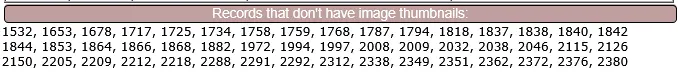
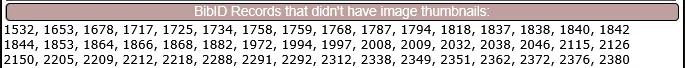
update: README.md thumbnail

diff --git a/catalog/thumbnail_check.php b/catalog/thumbnail_check.php
@@ -49,7 +49,7 @@ if ($missingThumbs['success'] === true) {
 
 	$missing_thumbnails = $results->thumbnail_FailtoAdd();
 	$count = 0;
-	echo "<h3>BibID Records that don't have image thumbnails:</h3>";
+	echo "<h3>BibID Records that didn't have image thumbnails:</h3>";
 	if (!empty($missing_thumbnails)) {
 			
 			foreach ($missing_thumbnails as $row) {
